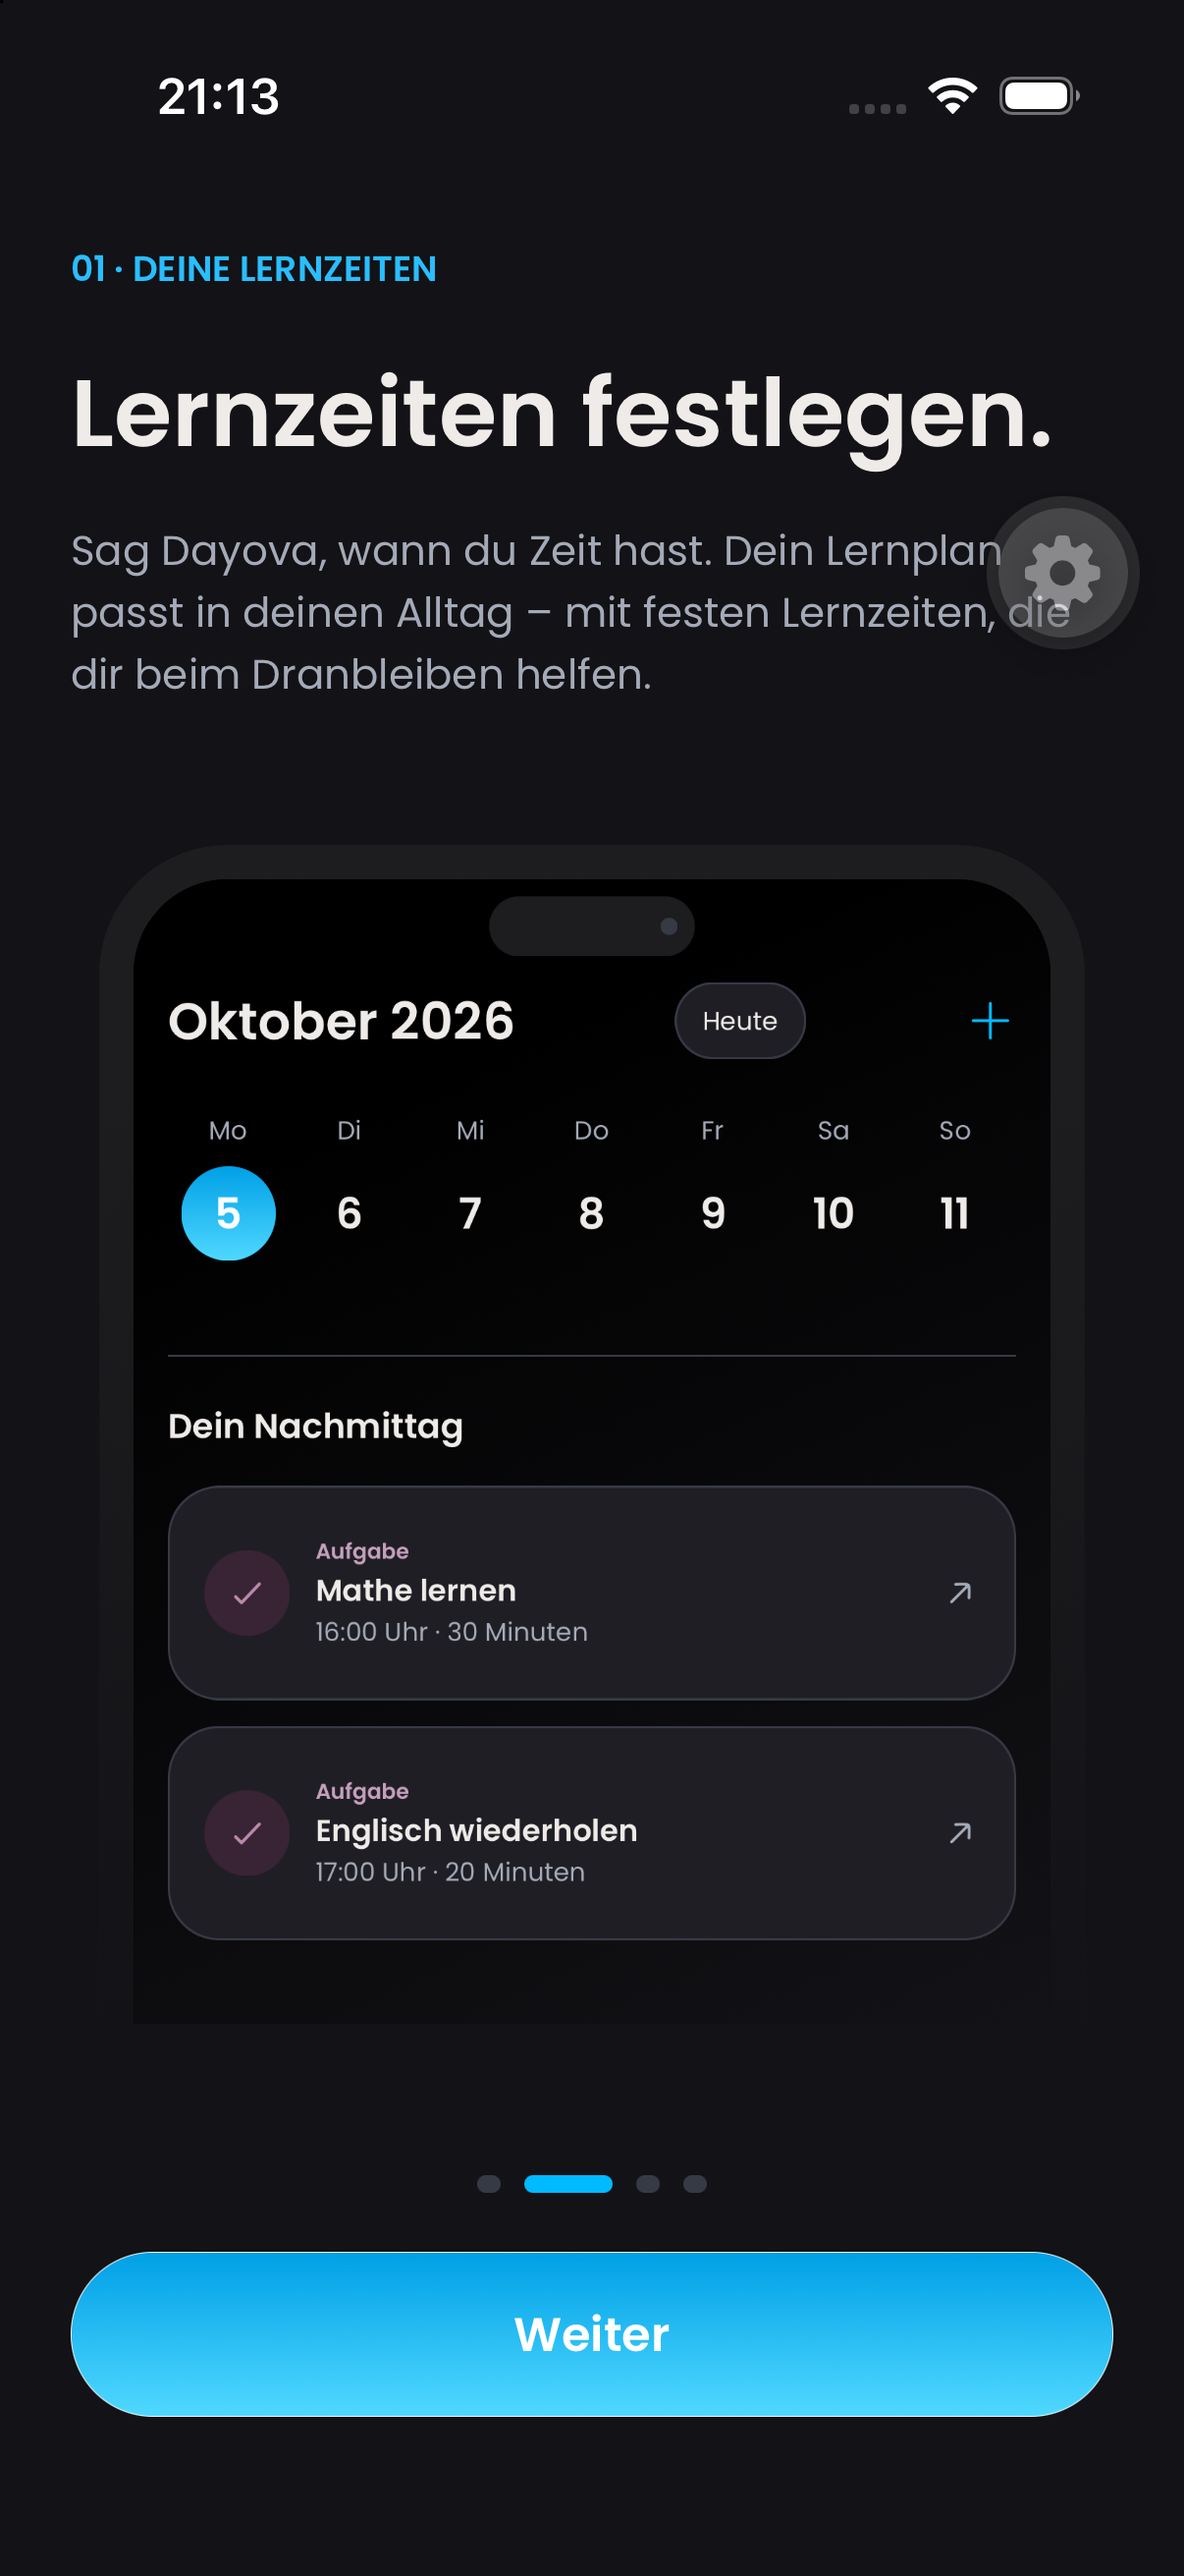
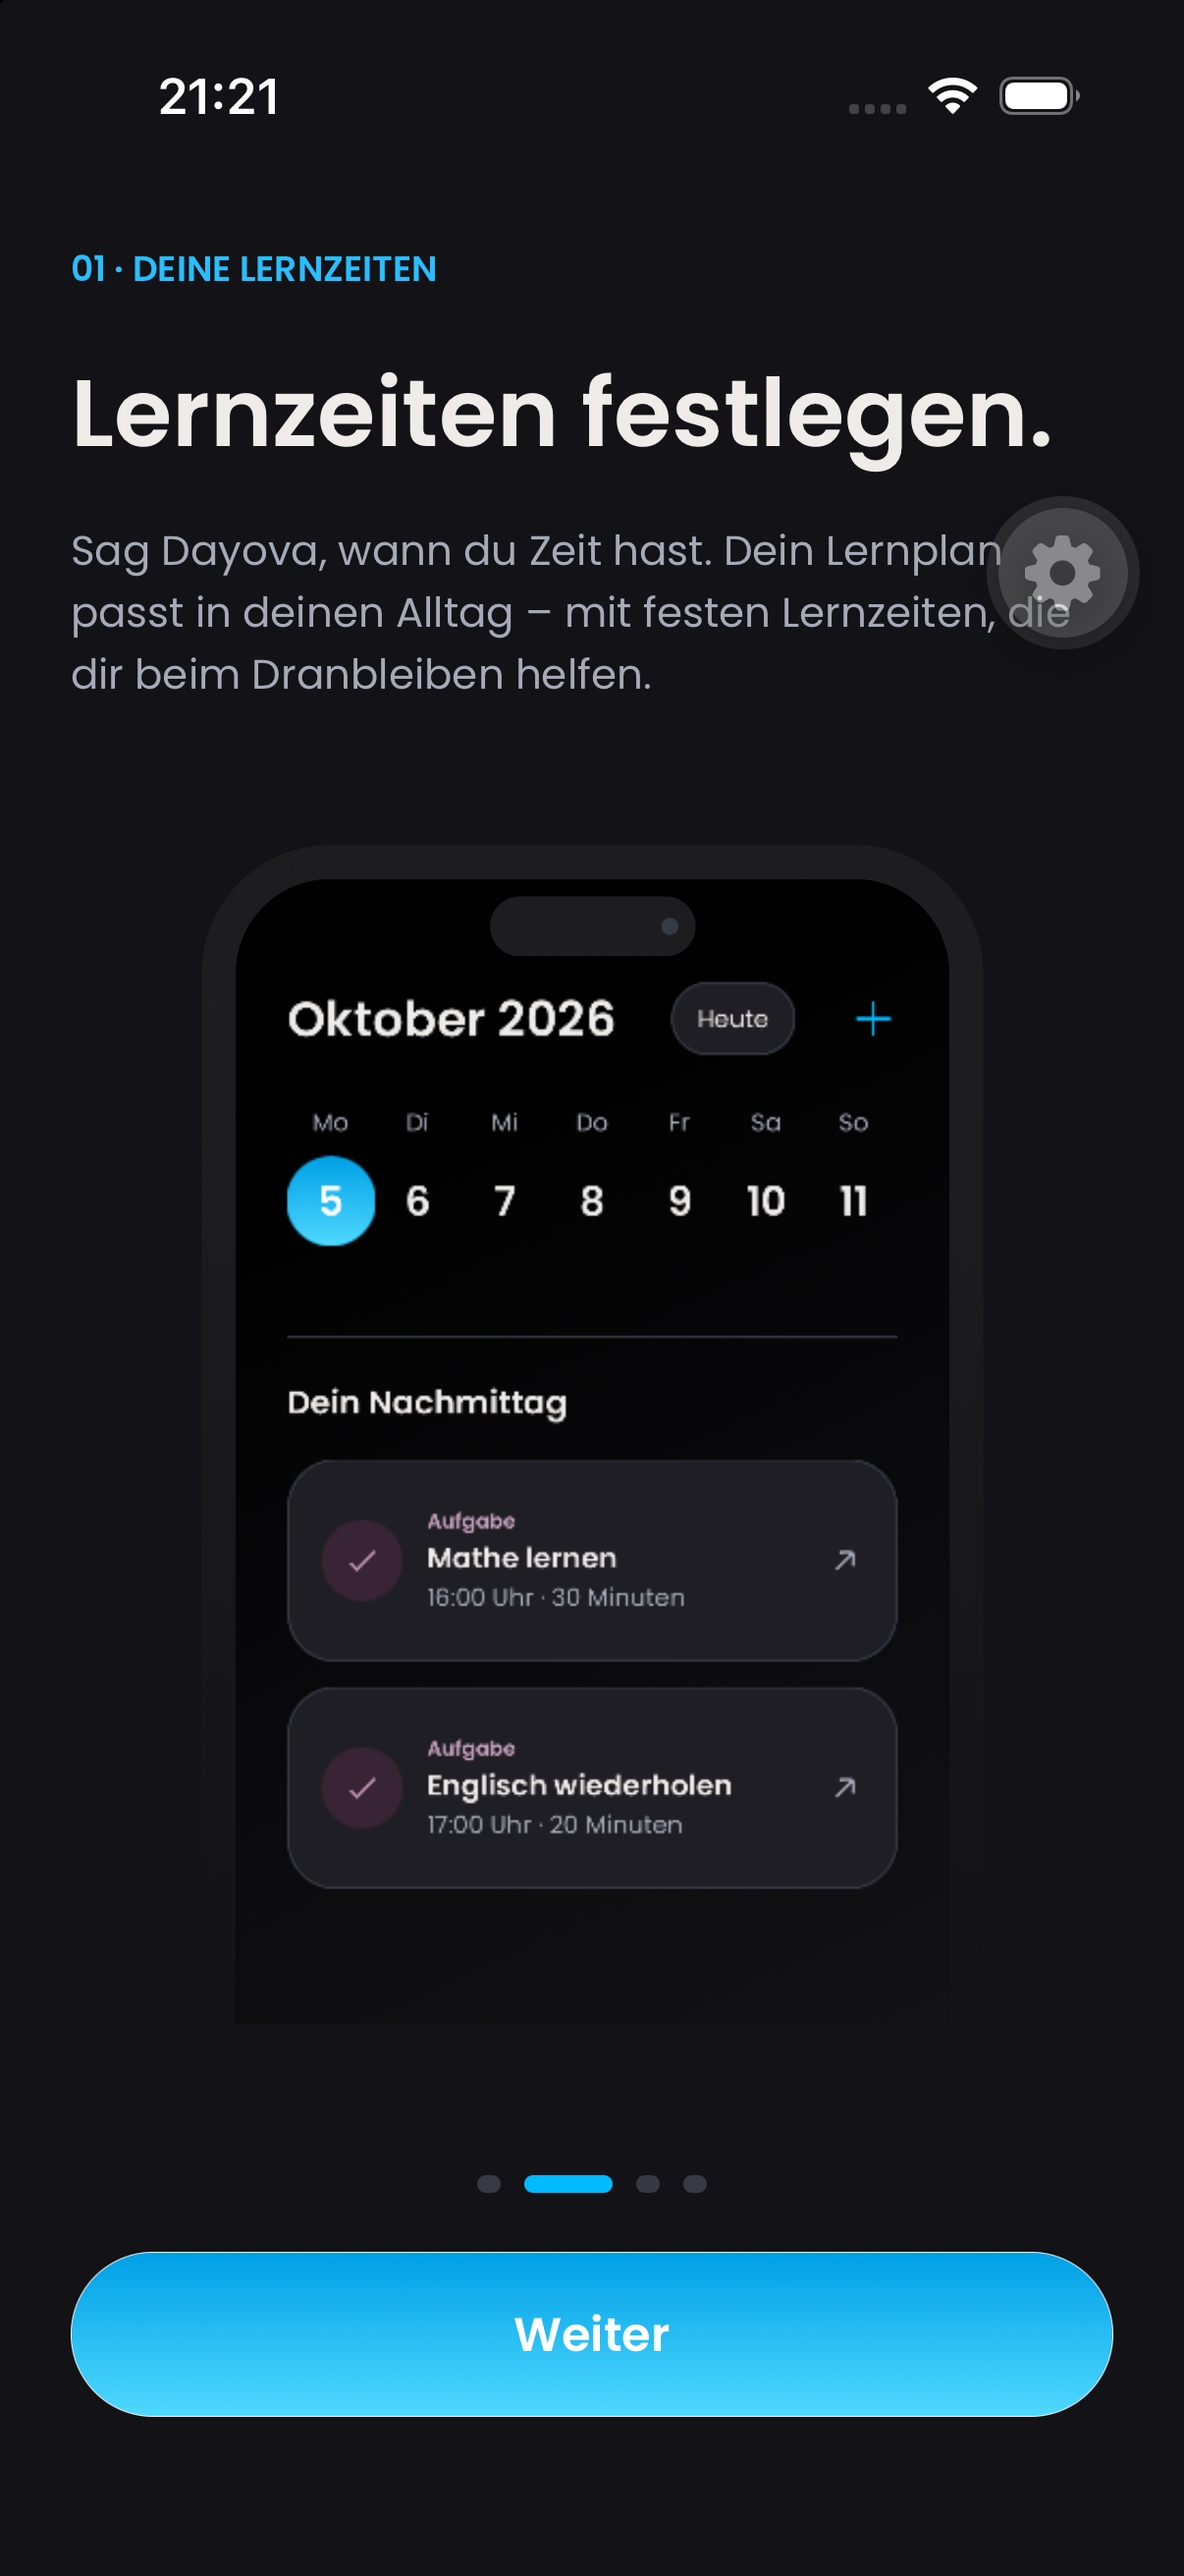
design: restore slim phones with more inner spacing

diff --git a/src/components/onboarding/intro-phone-frame.tsx b/src/components/onboarding/intro-phone-frame.tsx
@@ -15,7 +15,7 @@ export function IntroPhoneFrame({
 	testID: string;
 }) {
 	const { isDark, colors } = useDayovaTheme();
-	const scale = Math.min(width / 460, height / 550);
+	const scale = Math.min(width / 365, height / 550);
 	// Hardware finishes are illustration colors, not new product surface tokens.
 	const shell = isDark ? "#1D1D1F" : "#F2F2F5";
 	const screen = isDark ? "#000000" : "#FFFFFF";
@@ -31,7 +31,7 @@ export function IntroPhoneFrame({
 			style={{ width, height }}
 		>
 			<View
-				className="h-[550px] w-[460px] overflow-hidden rounded-t-[60px]"
+				className="h-[550px] w-[365px] overflow-hidden rounded-t-[60px]"
 				// Theme-aware hardware fill and responsive artboard scale.
 				style={{
 					backgroundColor: shell,
@@ -54,8 +54,17 @@ export function IntroPhoneFrame({
 				>
 					<View className="h-2 w-2 rounded-full bg-border" />
 				</View>
-				<View className="flex-1 overflow-hidden px-8 pt-16 pb-6">
-					{children}
+				<View className="flex-1 items-center overflow-hidden px-10 pt-16 pb-6">
+					<View
+						className="w-[301px]"
+						// Preserve the product layout while adding breathing room inside the device.
+						style={{
+							transform: [{ scale: 285 / 301 }],
+							transformOrigin: "top center",
+						}}
+					>
+						{children}
+					</View>
 				</View>
 			</View>
 		</View>

diff --git a/src/features/auth/dayova-auth-flow.tsx b/src/features/auth/dayova-auth-flow.tsx
@@ -1188,14 +1188,20 @@ function IntroPageContent({
 						/>
 					) : null}
 					{item.illustration === "calendar" ? (
-						<IntroCalendarArtwork width={artworkWidth} height={artworkHeight} />
+						<IntroCalendarArtwork
+							width={artworkWidth - 24}
+							height={artworkHeight}
+						/>
 					) : null}
 					{item.illustration === "upload" ? (
-						<IntroUploadArtwork width={artworkWidth} height={artworkHeight} />
+						<IntroUploadArtwork
+							width={artworkWidth - 24}
+							height={artworkHeight}
+						/>
 					) : null}
 					{item.illustration === "path" ? (
 						<IntroLearningPathArtwork
-							width={artworkWidth}
+							width={artworkWidth - 24}
 							height={artworkHeight}
 						/>
 					) : null}

diff --git a/src/components/onboarding/intro-learning-path-artwork.tsx b/src/components/onboarding/intro-learning-path-artwork.tsx
@@ -50,7 +50,7 @@ export function IntroLearningPathArtwork({
 			<LearningPathVisual
 				mode="artwork"
 				nodes={learningPathPreview}
-				width={396}
+				width={293}
 				height={430}
 				continuation={{
 					examDateLabel: "Freitag, 30. Oktober",

diff --git a/docs/contexts/design-system/adr/onboarding-artwork-rendering.md b/docs/contexts/design-system/adr/onboarding-artwork-rendering.md
@@ -125,6 +125,6 @@ adaptation. A future replacement must still share its product presentation
 module and must include fresh native evidence; a copied card, Figma export, or
 onboarding-only SVG is not a valid reversal.
 
-The intro device uses a wider 460 × 550 illustration artboard and the full
-available artwork width. This gives embedded product content more horizontal
-room while preserving uniform scaling, the page copy, and the primary action.
+The intro device retains the reference's slim 365 × 550 artboard. Its product
+content keeps its original layout width and is uniformly inset to leave 24px
+between the content and the inner screen edge, rather than widening the phone.
